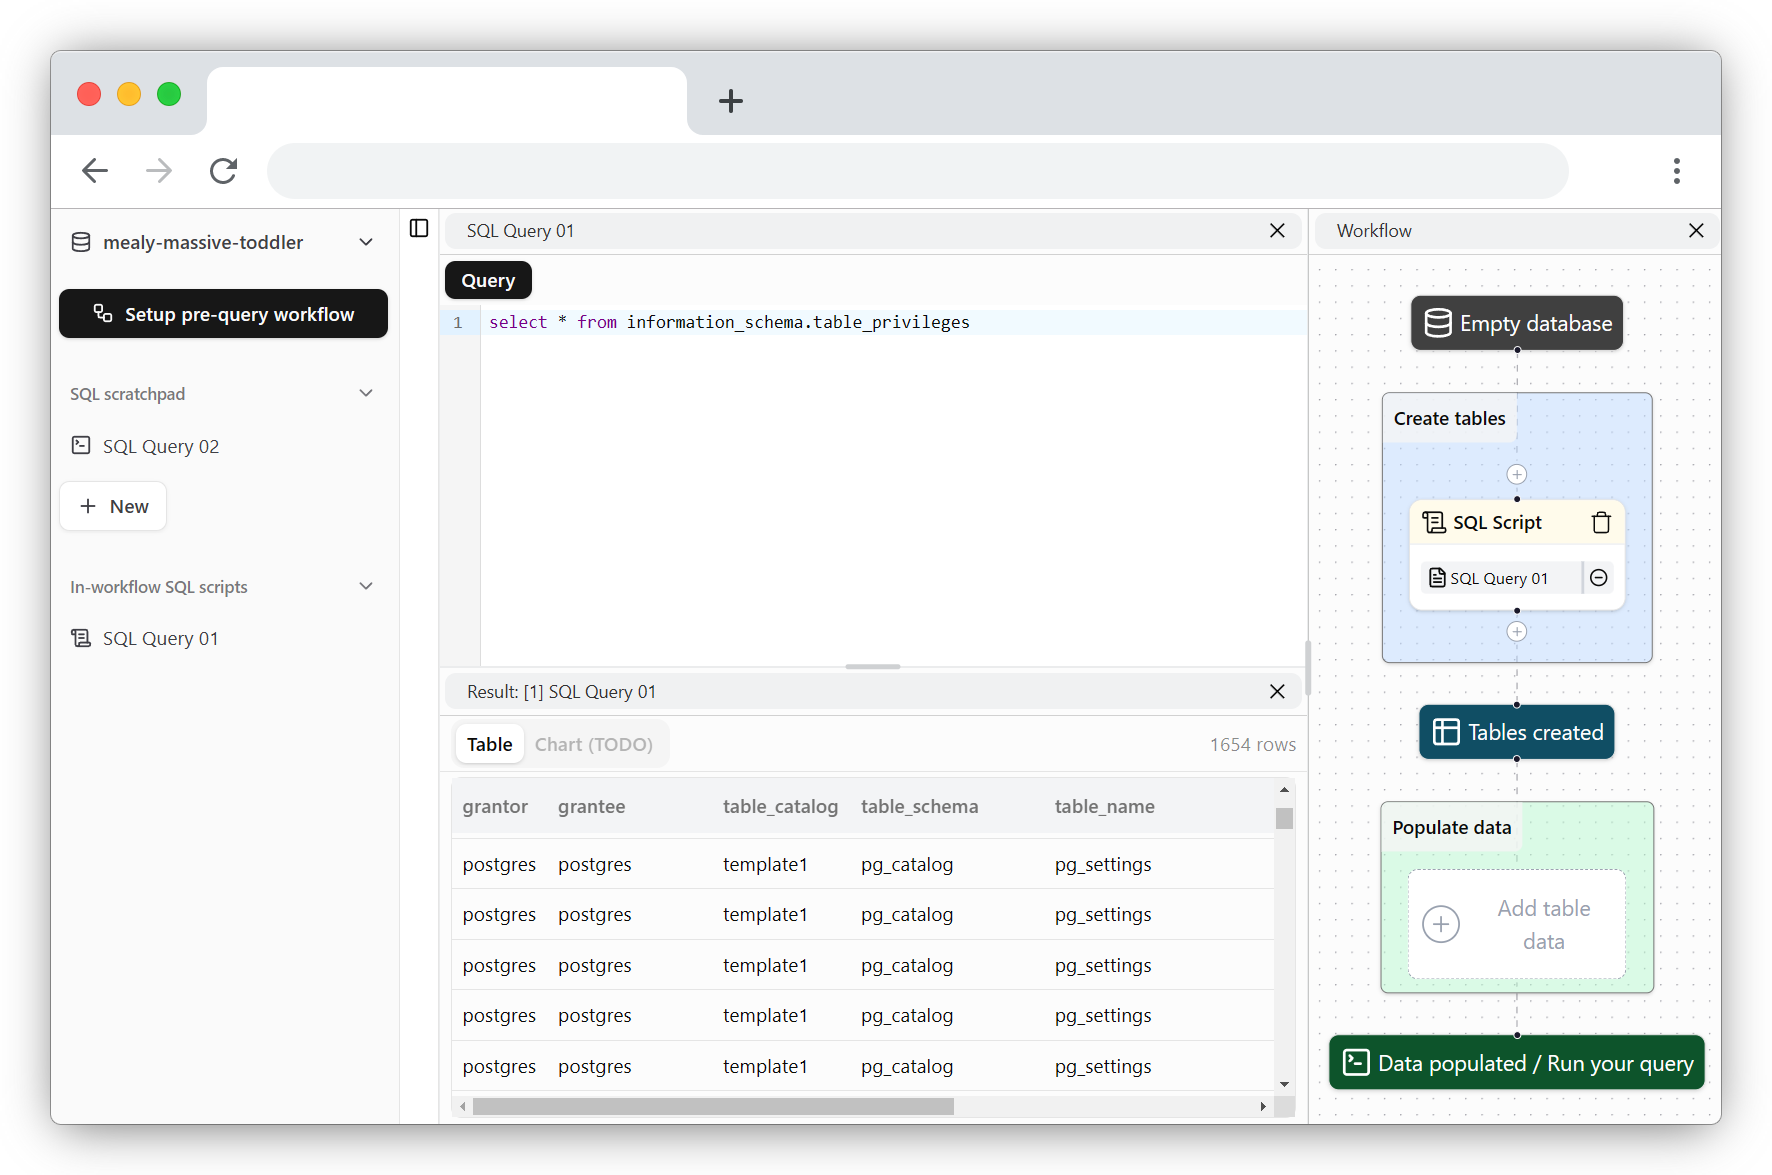
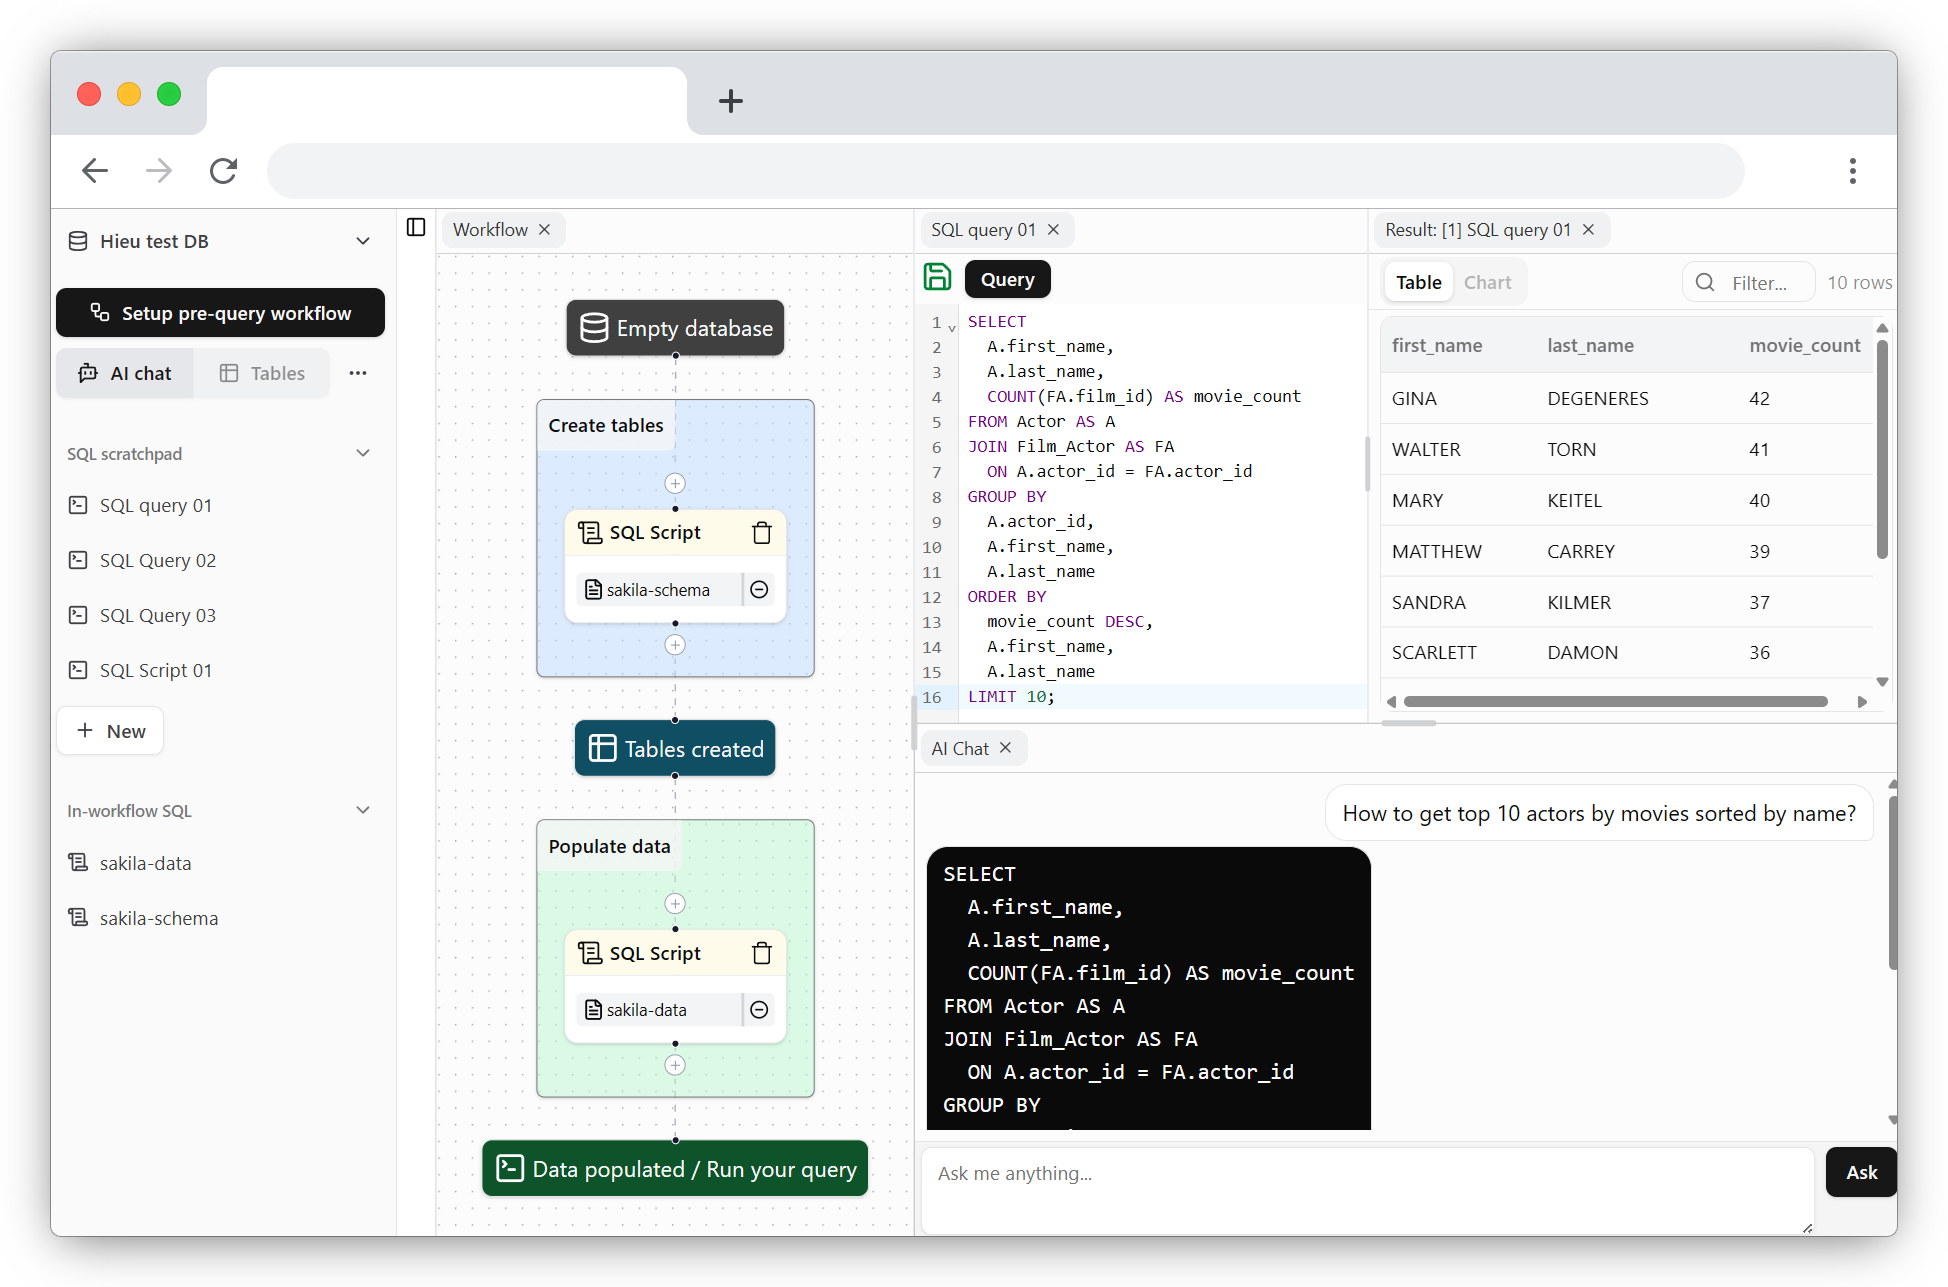
Update description + screenshot

diff --git a/src/components/workflow-blocks/placeholder-data-node.tsx b/src/components/workflow-blocks/placeholder-data-node.tsx
@@ -2,7 +2,13 @@ import { usePostgresStore } from "@/hooks/stores/use-postgres-store";
 import { WorkflowStep, appDb, useAppDbLiveQuery } from "@/lib/dexie/app-db";
 import { memDbId } from "@/lib/utils";
 import { Node, NodeProps } from "@xyflow/react";
-import { PlusCircle } from "lucide-react";
+import {
+  PencilRuler,
+  PlusCircle,
+  ScrollText,
+  TableIcon,
+  WandSparkles,
+} from "lucide-react";
 
 import {
   DropdownMenu,
@@ -65,9 +71,20 @@ export const PlaceholderDataNode = ({
         <DropdownMenuItem
           onClick={() => addWorkflowStep(insertBefore, "sql-query")}
         >
+          <ScrollText />
           From SQL
         </DropdownMenuItem>
-        <DropdownMenuItem disabled>From AI prompt</DropdownMenuItem>
+        <DropdownMenuItem disabled>
+          <TableIcon />
+          From tabular data (JSON, CSV,...)
+        </DropdownMenuItem>
+        <DropdownMenuItem disabled>
+          <PencilRuler /> From data generator
+        </DropdownMenuItem>
+        <DropdownMenuItem disabled>
+          <WandSparkles />
+          From AI prompt
+        </DropdownMenuItem>
       </DropdownMenuContent>
     </DropdownMenu>
   );

diff --git a/src/components/workflow-blocks/placeholder-schema-node.tsx b/src/components/workflow-blocks/placeholder-schema-node.tsx
@@ -2,7 +2,7 @@ import { usePostgresStore } from "@/hooks/stores/use-postgres-store";
 import { WorkflowStep, appDb, useAppDbLiveQuery } from "@/lib/dexie/app-db";
 import { memDbId } from "@/lib/utils";
 import { Node, NodeProps } from "@xyflow/react";
-import { PlusCircle } from "lucide-react";
+import { PlusCircle, ScrollText, WandSparkles } from "lucide-react";
 
 import {
   DropdownMenu,
@@ -69,12 +69,17 @@ export const PlaceholderSchemaNode = ({
         <DropdownMenuItem
           onClick={() => addWorkflowStep(insertBefore, "sql-query")}
         >
+          <ScrollText />
           From SQL
         </DropdownMenuItem>
         <DropdownMenuItem disabled>
-          From DBML <DropdownMenuHint href="https://dbml.dbdiagram.io/home/" />
+          <ScrollText />
+          From DBML
+          <DropdownMenuHint href="https://dbml.dbdiagram.io/home/" />
         </DropdownMenuItem>
-        <DropdownMenuItem disabled>From AI prompt</DropdownMenuItem>
+        <DropdownMenuItem disabled>
+          <WandSparkles /> From AI prompt
+        </DropdownMenuItem>
       </DropdownMenuContent>
     </DropdownMenu>
   );

diff --git a/src/components/sections/app-sidebar.tsx b/src/components/sections/app-sidebar.tsx
@@ -2,7 +2,6 @@ import Logo from "@/assets/logo.svg";
 import {
   Sidebar,
   SidebarContent,
-  SidebarFooter,
   SidebarGroup,
   SidebarGroupContent,
   SidebarGroupLabel,
@@ -465,17 +464,11 @@ export function AppSidebar() {
         />
         <FileCollapsibleSection
           fileFilterPredicate={(file) => fileIdsInUse.includes(file.id)}
-          sectionName="In-workflow SQL scripts"
+          sectionName="In-workflow SQL"
           itemIcon={<ScrollText />}
           hiddenIfEmpty={true}
         />
       </SidebarContent>
-      <SidebarFooter>
-        {/* <Button className="ml-auto" variant={"outline"}>
-          <SquareTerminalIcon size={25} />
-          Console
-        </Button> */}
-      </SidebarFooter>
     </Sidebar>
   );
 }

diff --git a/src/components/tabs/query-editor.tsx b/src/components/tabs/query-editor.tsx
@@ -257,6 +257,10 @@ export function QueryEditor({ contextId, fileId }: QueryEditorProps) {
               run: () => {
                 cancelDebouncedSave();
                 setShouldSave(contextId, true);
+                toast("File saved!", {
+                  duration: 1000,
+                });
+
                 return true;
               },
             },

diff --git a/README.md b/README.md
@@ -5,23 +5,28 @@
 
 <h3 align="center">PostgreSQL data explorer that lives in your browser.</h3>
 
-![Demo scrrnshot](./public/demo1.png)
+![Demo screenshot](./public/demo1.png)
 
-Create and explore your in-browser PostgreSQL databases with a modern web interface. pgExplore is a Progressive Web App (PWA) that runs offline in your browser and doesn't require any server-side setup. Completely free and open-source. Powered by [PGlite](https://github.com/electric-sql/pglite).
+- Ever wanted to test out a SQL query without having to set up a database?  
+- Have a colossal database schema, and feel like AI (maybe your locally hosted one) can help you to write SQL queries? 
+- Or just want to utilize the versatility of PostgreSQL to analyze your sensitive JSON/CSV files, but importing files is a big hassle? 
+
+pgExplore is here to help you with that! pgExplore is a Progressive Web App (PWA) Postgres explorer and server that runs offline in your browser (works without Internet connection). Completely free and open-source. Powered by [PGlite](https://github.com/electric-sql/pglite) and my desire to build a SQL toolbox that meets my needs, while being more intuitive than '00s tech 😃
 
 Try it out at [pg-explore.vercel.app](https://pg-explore.vercel.app).
 
-## Features (TODO)
+## Features
 
-- [x] Create and manage PostgreSQL databases that persist in your browser
-- [ ] Add table schema & data files (SQL, DBML, JSON,...) to build your query workflow
-- [x] SQL query editor with error highlighting and schema autocompletion
-- [ ] Configurable AI chat integration for SQL query suggestions
-- [ ] Table & chart visualization for query results
+- [x] Create and manage Postgres databases that persist in your browser
+- [x] Add table schema & data files (SQL, DBML, JSON,...) to build your query workflow
+- [x] Configurable AI assistant fed with your database schema to help you write SQL queries
+- [x] SQL query editor with error highlighting and autocompletion
+- [x] Table & chart visualization for query results
 - [ ] Table relationship visualization
-- [ ] (Maybe) PostgreSQL query plan visualization
-- [ ] Embeddable SQL query widgets for your website
-- [ ] Export & import database files for sharing and collaboration
+- [ ] Embeddable SQL query widgets for interactive SQL sharing
+- [ ] Export & import database schema and data
+
+And of course, feel free to open an issue or PR if you have any suggestions or feature requests. I will be happy to consider them.
 
 ## Getting Started
 
